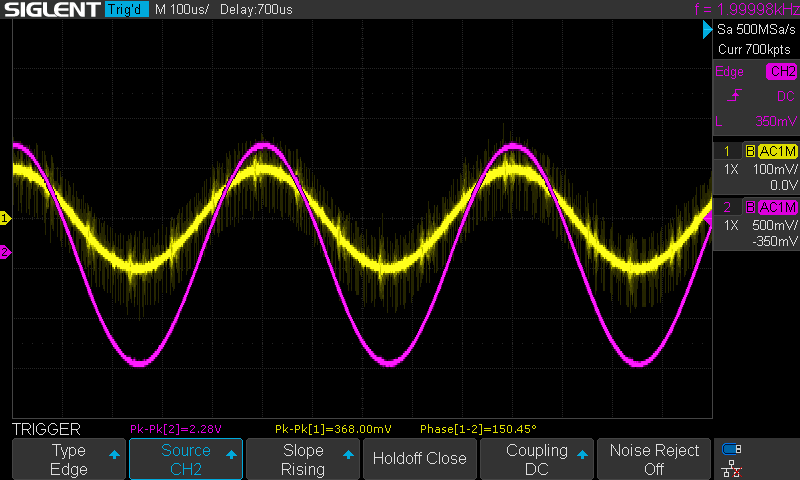
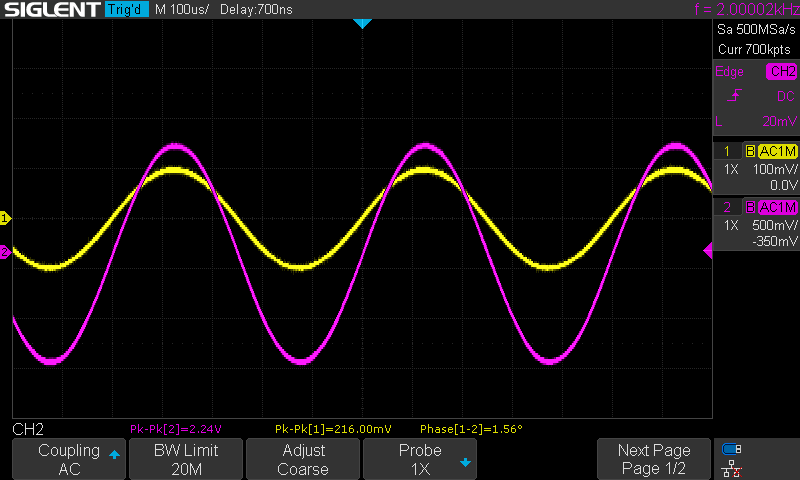
correct measurements

diff --git a/Multisim Circuits/Opamp/Non-Inverting/README.md b/Multisim Circuits/Opamp/Non-Inverting/README.md
@@ -29,53 +29,43 @@ At the displayed cursor position, Multisim reads 16.634 mV on Channel A and 210.
 
 ## Hardware measurements
 
-The hardware images show the Siglent measurement bar. Channel 1 is the yellow input and Channel 2 is the magenta output. The Vpp readings below are transcribed from the screen, and gain is recalculated as `Vout(pp) / Vin(pp)`. Frequencies use the image filenames because some on-screen frequency-counter values do not match their filenames. The ratios are the observed hardware results, not the ideal gain of +11 V/V.
+The replacement hardware images show the Siglent measurement bar. Channel 1 is the yellow input and Channel 2 is the magenta output. The Vpp readings below are transcribed from the screen, and gain is recalculated as `Vout(pp) / Vin(pp)`. Frequencies follow the capture filenames; the scope's frequency-counter readout is noisy and unreliable at high frequencies.
 
-| Capture frequency | Input (Vpp) | Output (Vpp) | Observed gain magnitude (V/V) |
+| Capture frequency (filename) | Input (Vpp) | Output (Vpp) | Observed gain magnitude (V/V) |
 |---:|---:|---:|---:|
-| 50 Hz | 0.348 | 2.26 | 6.49 |
-| 100 Hz | 0.368 | 2.28 | 6.20 |
-| 200 Hz | 0.440 | 2.28 | 5.18 |
-| 500 Hz | 0.348 | 2.24 | 6.44 |
-| 1 kHz | 0.356 | 2.26 | 6.35 |
-| 2 kHz | 0.368 | 2.28 | 6.20 |
-| 5 kHz | 0.336 | 2.28 | 6.79 |
-| 10 kHz | 0.332 | 2.30 | 6.93 |
-| 50 kHz | 0.352 | 1.82 | 5.17 |
-| 100 kHz | 0.296 | 1.16 | 3.92 |
-| 200 kHz | 0.284 | 0.700 | 2.46 |
-| 500 kHz | 0.316 | 0.300 | 0.95 |
-| 1 MHz | 0.272 | 0.132 | 0.49 |
-| 2 MHz | 0.232 | 0.068 | 0.29 |
-| 5 MHz | 0.364 | 0.028 | 0.077 |
-| 10 MHz | 0.124 | 0.020 | 0.16 |
+| 100 Hz | 0.224 | 2.260 | 10.09 |
+| 200 Hz | 0.220 | 2.260 | 10.27 |
+| 500 Hz | 0.220 | 2.260 | 10.27 |
+| 1 kHz | 0.220 | 2.260 | 10.27 |
+| 2 kHz | 0.216 | 2.240 | 10.37 |
+| 5 kHz | 0.216 | 2.240 | 10.37 |
+| 10 kHz | 0.220 | 2.260 | 10.27 |
+| 50 kHz | 0.212 | 1.800 | 8.49 |
+| 100 kHz | 0.212 | 1.180 | 5.57 |
+| 200 kHz | 0.216 | 0.660 | 3.06 |
+| 500 kHz | 0.204 | 0.272 | 1.33 |
+| 1 MHz | 0.208 | 0.136 | 0.65 |
+| 2 MHz | 0.204 | 0.072 | 0.35 |
+| 5 MHz | 0.188 | 0.036 | 0.19 |
+| 10 MHz | 0.152 | 0.0096 | 0.063 |
 
-At 1 kHz, the hardware screenshot's Vpp readings give `2.26 Vpp / 0.356 Vpp = 6.35 V/V`, not 11 V/V. This is not a correction to the ideal gain formula; the saved hardware capture does not demonstrate the stated circuit's expected gain. The hardware input amplitude also varies substantially across captures, so use the measured input in each row rather than the schematic generator setting. Verify the feedback-divider wiring and resistor values, scope probe attenuation, and channel assignments. The phase values shown on some captures also do not consistently match an in-phase non-inverting response, so treat them as instrument readouts requiring setup verification.
+There is no 50 Hz image in the replacement capture set. From 100 Hz through 10 kHz, the measured gain is 10.09–10.37 V/V, about 6–8% below the ideal +11 V/V. At 1 kHz, `2.260 Vpp / 0.220 Vpp = 10.27 V/V`, confirming the expected non-inverting gain closely. The measured input is about 0.22 Vpp, higher than the schematic's nominal 0.10 Vpp source setting; use the measured Channel 1 value for gain. Gain falls from about 8.49 V/V at 50 kHz as the LM741 approaches its bandwidth limit. For frequency-response interpretation, use the frequencies in the capture filenames; do not use the high-frequency scope-counter readouts, which are unreliable because of noise.
 
 ## Hardware oscilloscope captures
 
-The gallery contains all 16 frequency-named captures. The two `SDS` images are included separately because their circuit identity is not clear from the screenshots; they are not included in the non-inverting frequency table.
+The replacement gallery contains 15 captures, from 100 Hz to 10 MHz. No 50 Hz capture is present.
 
-| 50 Hz | 100 Hz | 200 Hz |
+| 100 Hz | 200 Hz | 500 Hz |
 |---|---|---|
-| <img src="Hardware%20Images/50Hz.png" alt="Non-inverting amplifier hardware capture at 50 Hz" width="250"> | <img src="Hardware%20Images/100Hz.png" alt="Non-inverting amplifier hardware capture at 100 Hz" width="250"> | <img src="Hardware%20Images/200Hz.png" alt="Non-inverting amplifier hardware capture at 200 Hz" width="250"> |
-| 500 Hz | 1 kHz | 2 kHz |
-| <img src="Hardware%20Images/500Hz.png" alt="Non-inverting amplifier hardware capture at 500 Hz" width="250"> | <img src="Hardware%20Images/1kHz.png" alt="Non-inverting amplifier hardware capture at 1 kHz" width="250"> | <img src="Hardware%20Images/2kHz.png" alt="Non-inverting amplifier hardware capture at 2 kHz" width="250"> |
-| 5 kHz | 10 kHz | 50 kHz |
-| <img src="Hardware%20Images/5kHz.png" alt="Non-inverting amplifier hardware capture at 5 kHz" width="250"> | <img src="Hardware%20Images/10kHz.png" alt="Non-inverting amplifier hardware capture at 10 kHz" width="250"> | <img src="Hardware%20Images/50kHz.png" alt="Non-inverting amplifier hardware capture at 50 kHz" width="250"> |
-| 100 kHz | 200 kHz | 500 kHz |
-| <img src="Hardware%20Images/100kHz.png" alt="Non-inverting amplifier hardware capture at 100 kHz" width="250"> | <img src="Hardware%20Images/200kHz.png" alt="Non-inverting amplifier hardware capture at 200 kHz" width="250"> | <img src="Hardware%20Images/500kHz.png" alt="Non-inverting amplifier hardware capture at 500 kHz" width="250"> |
-| 1 MHz | 2 MHz | 5 MHz |
-| <img src="Hardware%20Images/1MHz.png" alt="Non-inverting amplifier hardware capture at 1 MHz" width="250"> | <img src="Hardware%20Images/2MHz.png" alt="Non-inverting amplifier hardware capture at 2 MHz" width="250"> | <img src="Hardware%20Images/5MHz.png" alt="Non-inverting amplifier hardware capture at 5 MHz" width="250"> |
-| 10 MHz | SDS00016 (scope label: 5 MHz) | SDS00017 (scope label: 10 MHz) |
-| <img src="Hardware%20Images/10MHz.png" alt="Non-inverting amplifier hardware capture at 10 MHz" width="250"> | <img src="Hardware%20Images/SDS00016.png" alt="Unassigned supplementary scope capture, scope label 5 MHz" width="250"> | <img src="Hardware%20Images/SDS00017.png" alt="Unassigned supplementary scope capture, scope label 10 MHz" width="250"> |
-
-The two supplementary images show these readings, but their circuit assignment is uncertain:
-
-| Image | Scope frequency label | Input (Vpp) | Output (Vpp) | Observed ratio (V/V) | Scope phase (deg) |
-|---|---:|---:|---:|---:|---:|
-| `SDS00016.png` | 5 MHz | 0.0200 | 0.082 | 4.10 | 9.00 |
-| `SDS00017.png` | 10 MHz | 0.0188 | 0.016 | 0.85 | Not measurable |
+| <img src="Hardware%20Images/100Hz.png" alt="Non-inverting amplifier hardware capture at 100 Hz" width="250"> | <img src="Hardware%20Images/200Hz.png" alt="Non-inverting amplifier hardware capture at 200 Hz" width="250"> | <img src="Hardware%20Images/500Hz.png" alt="Non-inverting amplifier hardware capture at 500 Hz" width="250"> |
+| 1 kHz | 2 kHz | 5 kHz |
+| <img src="Hardware%20Images/1kHz.png" alt="Non-inverting amplifier hardware capture at 1 kHz" width="250"> | <img src="Hardware%20Images/2kHz.png" alt="Non-inverting amplifier hardware capture at 2 kHz" width="250"> | <img src="Hardware%20Images/5kHz.png" alt="Non-inverting amplifier hardware capture at 5 kHz" width="250"> |
+| 10 kHz | 50 kHz | 100 kHz |
+| <img src="Hardware%20Images/10kHz.png" alt="Non-inverting amplifier hardware capture at 10 kHz" width="250"> | <img src="Hardware%20Images/50kHz.png" alt="Non-inverting amplifier hardware capture at 50 kHz" width="250"> | <img src="Hardware%20Images/100kHz.png" alt="Non-inverting amplifier hardware capture at 100 kHz" width="250"> |
+| 200 kHz | 500 kHz | 1 MHz |
+| <img src="Hardware%20Images/200kHz.png" alt="Non-inverting amplifier hardware capture at 200 kHz" width="250"> | <img src="Hardware%20Images/500kHz.png" alt="Non-inverting amplifier hardware capture at 500 kHz" width="250"> | <img src="Hardware%20Images/1MHz.png" alt="Non-inverting amplifier hardware capture at 1 MHz" width="250"> |
+| 2 MHz | 5 MHz | 10 MHz |
+| <img src="Hardware%20Images/2MHz.png" alt="Non-inverting amplifier hardware capture at 2 MHz" width="250"> | <img src="Hardware%20Images/5MHz.png" alt="Non-inverting amplifier hardware capture at 5 MHz" width="250"> | <img src="Hardware%20Images/10MHz.png" alt="Non-inverting amplifier hardware capture at 10 MHz" width="250"> |
 
 ## Calculation and measurement notes
 
